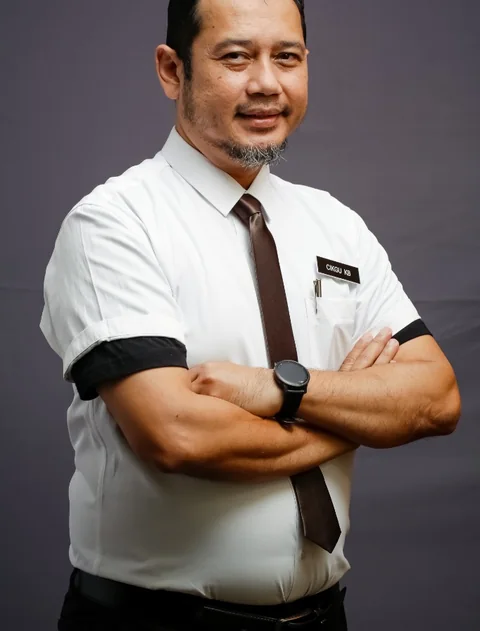
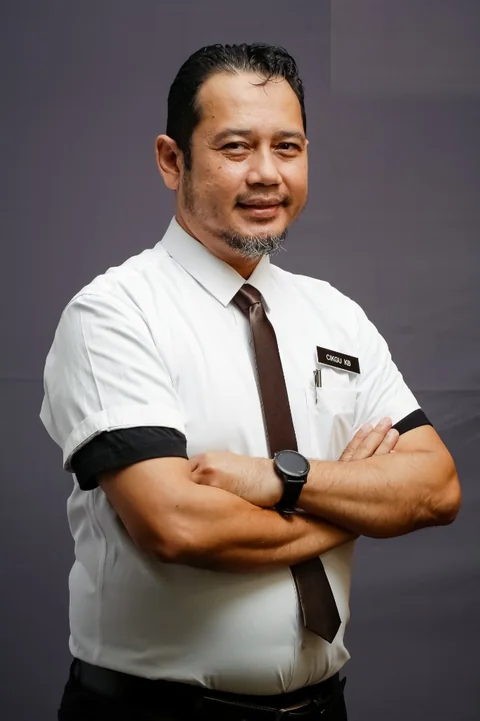
fix: show full portrait, remove source-code/GitHub links, update video reel links
- Remove top crop on hero/about portraits; patch out photographer
  watermark instead of cropping the subject's head
- Remove all GitHub/source-code links (featured cards, case study
  modal, archive cards, footer, contact) per owner request
- Replace video gallery with 6 new Facebook clips

diff --git a/index.html b/index.html
@@ -66,8 +66,7 @@
                 "knowsAbout": ["Digital Marketing", "AI Marketing", "Marketing Automation", "Corporate Training", "Web Application Development"],
                 "email": "mailto:kbcimb@gmail.com",
                 "telephone": "+60133815817",
-                "nationality": "Malaysia",
-                "sameAs": ["https://github.com/cikgukb"]
+                "nationality": "Malaysia"
             },
             {
                 "@type": "WebSite",
@@ -157,7 +156,7 @@
                     <img src="assets/img/portrait-hero.webp"
                          srcset="assets/img/portrait-hero-sm.webp 480w, assets/img/portrait-hero.webp 760w"
                          sizes="(max-width: 720px) 78vw, 380px"
-                         width="760" height="998" alt="Kamarul Bahareen — Cikgu KB" fetchpriority="high">
+                         width="760" height="1141" alt="Kamarul Bahareen — Cikgu KB" fetchpriority="high">
                 </div>
                 <figcaption class="mono" data-i18n="hero.imgcaption">Trainer Marketing Consultant · KB Beyond Creative Sdn Bhd</figcaption>
             </figure>
@@ -336,13 +335,8 @@
                     <p id="archiveCount" class="archive-count mono" aria-live="polite"></p>
                 </div>
                 <div id="archiveGrid" class="archive-grid"></div>
-                <p class="archive-more reveal">
-                    <a class="text-link" href="https://github.com/cikgukb?tab=repositories" target="_blank" rel="noopener"
-                        data-i18n="proj.githubAll">Lihat semua di GitHub</a>
-                </p>
                 <noscript>
-                    <p>Senarai projek memerlukan JavaScript. Lihat semua projek di
-                        <a href="https://github.com/cikgukb?tab=repositories">github.com/cikgukb</a>.</p>
+                    <p data-i18n="proj.noscript">Senarai projek memerlukan JavaScript. Sila hubungi saya untuk senarai penuh hasil kerja.</p>
                 </noscript>
             </div>
         </section>
@@ -424,29 +418,29 @@
                     <p class="section-lead" data-i18n="media.lead">Pilihan hasil pengarahan, suntingan dan eksperimen video — bukti pelaksanaan kreatif, bukan sekadar perancangan.</p>
                 </div>
                 <div class="video-rail reveal" role="list">
-                    <a class="video-card" role="listitem" href="https://www.facebook.com/share/v/17Q3HEBzWQ/" target="_blank" rel="noopener">
-                        <img src="assets/img/videos/jus_master.webp" width="720" height="720" loading="lazy" alt="Video pemasaran Jus Master Refreshment">
-                        <span class="video-name">Jus Master Refreshment <span class="video-tag mono" data-i18n="media.watch">Tonton di Facebook</span></span>
+                    <a class="video-card" role="listitem" href="https://www.facebook.com/reel/1798201401589933" target="_blank" rel="noopener">
+                        <img src="assets/img/videos/jus_master.webp" width="720" height="720" loading="lazy" alt="Klip video pemasaran 1">
+                        <span class="video-name">Klip Video 1 <span class="video-tag mono" data-i18n="media.watch">Tonton di Facebook</span></span>
                     </a>
-                    <a class="video-card" role="listitem" href="https://www.facebook.com/share/v/18Ef6KhNS4/" target="_blank" rel="noopener">
-                        <img src="assets/img/videos/marketing_strategy.webp" width="720" height="720" loading="lazy" alt="Video kisah Brader Kei">
-                        <span class="video-name">Kisah Brader Kei <span class="video-tag mono" data-i18n="media.watch">Tonton di Facebook</span></span>
+                    <a class="video-card" role="listitem" href="https://www.facebook.com/share/r/1G6TnE9M7R/" target="_blank" rel="noopener">
+                        <img src="assets/img/videos/marketing_strategy.webp" width="720" height="720" loading="lazy" alt="Klip video pemasaran 2">
+                        <span class="video-name">Klip Video 2 <span class="video-tag mono" data-i18n="media.watch">Tonton di Facebook</span></span>
                     </a>
-                    <a class="video-card" role="listitem" href="https://www.facebook.com/share/r/1Ao2AxM4qf/" target="_blank" rel="noopener">
-                        <img src="assets/img/videos/serunding_premium.webp" width="720" height="720" loading="lazy" alt="Video produk Serunding Daging Pouch">
-                        <span class="video-name">Serunding Daging Pouch <span class="video-tag mono" data-i18n="media.watch">Tonton di Facebook</span></span>
+                    <a class="video-card" role="listitem" href="https://www.facebook.com/share/v/1DGuvkXhkG/" target="_blank" rel="noopener">
+                        <img src="assets/img/videos/serunding_premium.webp" width="720" height="720" loading="lazy" alt="Klip video pemasaran 3">
+                        <span class="video-name">Klip Video 3 <span class="video-tag mono" data-i18n="media.watch">Tonton di Facebook</span></span>
                     </a>
-                    <a class="video-card" role="listitem" href="https://www.facebook.com/share/v/1BubNUsnUs/" target="_blank" rel="noopener">
-                        <img src="assets/img/videos/ai_animation.webp" width="720" height="720" loading="lazy" alt="Video percubaan kandungan komersial AI">
-                        <span class="video-name">Commercial Content Trial <span class="video-tag mono" data-i18n="media.watch">Tonton di Facebook</span></span>
+                    <a class="video-card" role="listitem" href="https://www.facebook.com/share/r/191B54HNNY/" target="_blank" rel="noopener">
+                        <img src="assets/img/videos/ai_animation.webp" width="720" height="720" loading="lazy" alt="Klip video pemasaran 4">
+                        <span class="video-name">Klip Video 4 <span class="video-tag mono" data-i18n="media.watch">Tonton di Facebook</span></span>
                     </a>
-                    <a class="video-card" role="listitem" href="https://www.facebook.com/share/v/1C5cVWMHK6/" target="_blank" rel="noopener">
-                        <img src="assets/img/videos/paris_travel.webp" width="720" height="720" loading="lazy" alt="Video Prayer at Eiffel Tower">
-                        <span class="video-name">Prayer at Eiffel Tower <span class="video-tag mono" data-i18n="media.watch">Tonton di Facebook</span></span>
+                    <a class="video-card" role="listitem" href="https://www.facebook.com/share/r/1H848vLbSD/" target="_blank" rel="noopener">
+                        <img src="assets/img/videos/paris_travel.webp" width="720" height="720" loading="lazy" alt="Klip video pemasaran 5">
+                        <span class="video-name">Klip Video 5 <span class="video-tag mono" data-i18n="media.watch">Tonton di Facebook</span></span>
                     </a>
-                    <a class="video-card" role="listitem" href="https://www.facebook.com/share/v/1Ahs9L9JaH/" target="_blank" rel="noopener">
-                        <img src="assets/img/videos/orangutan_nature.webp" width="720" height="720" loading="lazy" alt="Video kesedaran alam sekitar">
-                        <span class="video-name">Kesedaran Alam Sekitar <span class="video-tag mono" data-i18n="media.watch">Tonton di Facebook</span></span>
+                    <a class="video-card" role="listitem" href="https://www.facebook.com/share/v/1J4mWB4AFG/" target="_blank" rel="noopener">
+                        <img src="assets/img/videos/orangutan_nature.webp" width="720" height="720" loading="lazy" alt="Klip video pemasaran 6">
+                        <span class="video-name">Klip Video 6 <span class="video-tag mono" data-i18n="media.watch">Tonton di Facebook</span></span>
                     </a>
                 </div>
             </div>
@@ -516,12 +510,6 @@
                                     kbcimb@gmail.com
                                 </a>
                             </li>
-                            <li>
-                                <a href="https://github.com/cikgukb" target="_blank" rel="noopener">
-                                    <svg width="16" height="16" viewBox="0 0 24 24" fill="currentColor" aria-hidden="true"><path d="M12 1.8a10.2 10.2 0 0 0-3.2 19.9c.5.1.7-.2.7-.5v-1.8c-2.8.6-3.4-1.2-3.4-1.2-.5-1.2-1.1-1.5-1.1-1.5-.9-.6.1-.6.1-.6 1 .1 1.6 1 1.6 1 .9 1.6 2.4 1.1 3 .9.1-.7.4-1.1.6-1.4-2.3-.3-4.7-1.1-4.7-5a4 4 0 0 1 1-2.8 3.7 3.7 0 0 1 .1-2.7s.9-.3 2.8 1a9.7 9.7 0 0 1 5.1 0c2-1.3 2.8-1 2.8-1 .5 1.3.2 2.4.1 2.7a4 4 0 0 1 1 2.8c0 3.9-2.4 4.7-4.7 5 .4.3.7.9.7 1.9v2.8c0 .3.2.6.7.5A10.2 10.2 0 0 0 12 1.8Z"/></svg>
-                                    github.com/cikgukb
-                                </a>
-                            </li>
                         </ul>
                         <p class="reply-note" data-i18n="contact.reply">Kebiasaannya saya membalas dalam masa satu hari bekerja.</p>
                     </aside>
@@ -551,7 +539,6 @@
                 <ul>
                     <li><a href="mailto:kbcimb@gmail.com">kbcimb@gmail.com</a></li>
                     <li><a href="https://wa.me/60133815817" target="_blank" rel="noopener">013-3815817</a></li>
-                    <li><a href="https://github.com/cikgukb" target="_blank" rel="noopener">github.com/cikgukb</a></li>
                 </ul>
             </div>
         </div>

diff --git a/js/main.js b/js/main.js
@@ -61,7 +61,6 @@
 
     /* ---------- ikon SVG ---------- */
     const ICON_EXT = '<svg width="13" height="13" viewBox="0 0 24 24" fill="none" aria-hidden="true"><path d="M7 17 17 7M9 7h8v8" stroke="currentColor" stroke-width="2" stroke-linecap="round" stroke-linejoin="round"/></svg>';
-    const ICON_GH = '<svg width="13" height="13" viewBox="0 0 24 24" fill="currentColor" aria-hidden="true"><path d="M12 1.8a10.2 10.2 0 0 0-3.2 19.9c.5.1.7-.2.7-.5v-1.8c-2.8.6-3.4-1.2-3.4-1.2-.5-1.2-1.1-1.5-1.1-1.5-.9-.6.1-.6.1-.6 1 .1 1.6 1 1.6 1 .9 1.6 2.4 1.1 3 .9.1-.7.4-1.1.6-1.4-2.3-.3-4.7-1.1-4.7-5a4 4 0 0 1 1-2.8 3.7 3.7 0 0 1 .1-2.7s.9-.3 2.8 1a9.7 9.7 0 0 1 5.1 0c2-1.3 2.8-1 2.8-1 .5 1.3.2 2.4.1 2.7a4 4 0 0 1 1 2.8c0 3.9-2.4 4.7-4.7 5 .4.3.7.9.7 1.9v2.8c0 .3.2.6.7.5A10.2 10.2 0 0 0 12 1.8Z"/></svg>';
 
     /* ---------- projek pilihan ---------- */
     function statusLabel(status) {
@@ -94,7 +93,6 @@
                 '<div class="feat-links">' +
                 '<button type="button" class="case-btn" data-case="' + i + '">' + t('proj.case') + '</button>' +
                 demo +
-                '<a href="' + esc(p.repo) + '" target="_blank" rel="noopener">' + t('proj.repo') + ' ' + ICON_GH + '</a>' +
                 '</div></div></article>';
         }).join('');
 
@@ -133,7 +131,6 @@
             caseSection(t('case.value'), '<p>' + esc(loc(cs.value)) + '</p>') +
             caseSection(t('case.status'), '<p>' + esc(loc(cs.statusNote)) + '</p>') +
             '<div class="case-links">' + demo +
-            '<a class="btn btn-line" href="' + esc(p.repo) + '" target="_blank" rel="noopener">' + t('proj.repo') + '</a>' +
             '<a class="text-link" href="#hubungi" data-close-goto>' + t('case.cta') + '</a></div>';
 
         lastFocus = document.activeElement;
@@ -216,9 +213,8 @@
                 '<span class="tech-tag">' + esc(p.tech) + '</span></div>' +
                 '<h4>' + esc(p.name) + '</h4>' +
                 '<p>' + esc(loc(p.desc)) + '</p>' +
-                '<div class="arch-links">' + demo +
-                '<a href="' + esc(p.repo) + '" target="_blank" rel="noopener">GitHub ' + ICON_GH + '</a>' +
-                '</div></div></article>';
+                (demo ? '<div class="arch-links">' + demo + '</div>' : '') +
+                '</div></article>';
         }).join('');
     }
 

diff --git a/js/i18n.js b/js/i18n.js
@@ -83,7 +83,6 @@ const I18N = {
         'proj.lead': 'Projek pilihan yang saya bina sendiri — daripada strategi kepada kod. Setiap satu boleh ditinjau, dicuba, atau disemak terus di GitHub.',
         'proj.case': 'Kajian Kes',
         'proj.demo': 'Demo Langsung',
-        'proj.repo': 'Kod Sumber',
         'proj.status.live': 'Live',
         'proj.status.prototype': 'Prototaip',
         'proj.status.repo': 'Repo',
@@ -91,7 +90,7 @@ const I18N = {
         'proj.archiveLead': 'Koleksi penuh alat, laman dan eksperimen yang dibina sepanjang perjalanan — ditapis mengikut kategori.',
         'proj.search': 'Cari projek…',
         'proj.count': 'projek dipaparkan',
-        'proj.githubAll': 'Lihat semua di GitHub',
+        'proj.noscript': 'Senarai projek memerlukan JavaScript. Sila hubungi saya untuk senarai penuh hasil kerja.',
 
         'case.problem': 'Masalah',
         'case.audience': 'Untuk siapa',
@@ -238,7 +237,6 @@ const I18N = {
         'proj.lead': 'Selected projects I built myself — from strategy to code. Each one can be reviewed, tried, or inspected directly on GitHub.',
         'proj.case': 'Case Study',
         'proj.demo': 'Live Demo',
-        'proj.repo': 'Source Code',
         'proj.status.live': 'Live',
         'proj.status.prototype': 'Prototype',
         'proj.status.repo': 'Repo',
@@ -246,7 +244,7 @@ const I18N = {
         'proj.archiveLead': 'The full collection of tools, sites and experiments built along the way — filter by category.',
         'proj.search': 'Search projects…',
         'proj.count': 'projects shown',
-        'proj.githubAll': 'View all on GitHub',
+        'proj.noscript': 'The project list requires JavaScript. Please contact me for the full portfolio.',
 
         'case.problem': 'Problem',
         'case.audience': 'Intended users',
